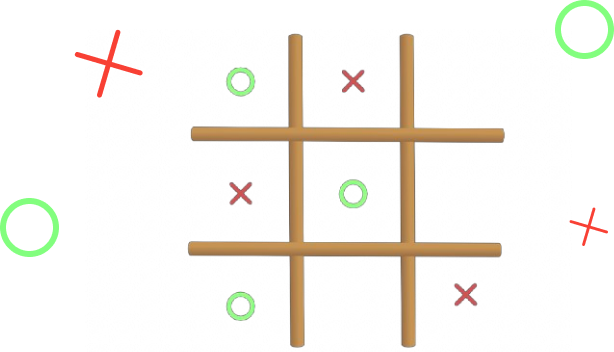
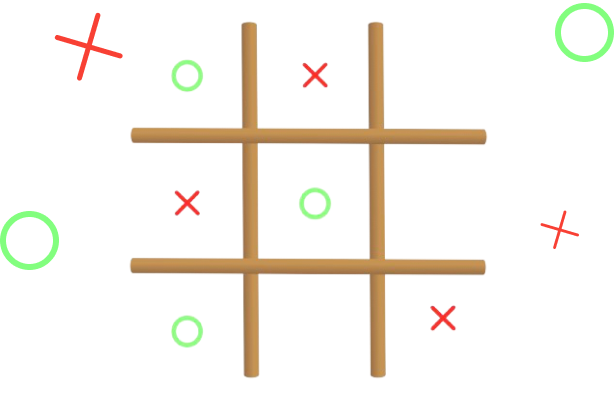
Updated: Copies Updated

diff --git a/lib/presentation/screens/home_page.dart b/lib/presentation/screens/home_page.dart
@@ -12,56 +12,47 @@ class HomePage extends StatelessWidget {
   @override
   Widget build(BuildContext context) {
     double screenWidth = MediaQuery.of(context).size.width;
+    double screenHeight = MediaQuery.of(context).size.height;
 
     return Scaffold(
         backgroundColor: AppColors.primary,
-        body: Column(
-          mainAxisSize: MainAxisSize.min,
-          mainAxisAlignment: MainAxisAlignment.center,
-          children: [
-            Row(
-              mainAxisSize: MainAxisSize.max,
+        body: Container(
+            decoration: BoxDecoration(
+              gradient: RadialGradient(
+                colors: [Colors.black.withOpacity(0.3), AppColors.primary.withOpacity(0.5), AppColors.primary],
+                stops: [0.3, 0.7, 1.0],
+                center: Alignment.center,
+                radius: 1,
+                // Applying GradientTransform to create an elliptical gradient
+                transform: CenteredEllipticalGradientTransform(scaleX: 1.1, scaleY: 0.3)
+                , // Stretch horizontally and shrink vertically
+              ),
+            ),
+            child: Column(
+              mainAxisSize: MainAxisSize.min,
               mainAxisAlignment: MainAxisAlignment.center,
               children: [
-                Image(
-                  image: AssetImage('assets/tic_tac_toe_anim.png'),
-                  width: screenWidth / 4,
+                Row(
+                  mainAxisSize: MainAxisSize.max,
+                  mainAxisAlignment: MainAxisAlignment.center,
+                  children: [
+                    Image(
+                      image: AssetImage('assets/tic_tac_toe_anim.png'),
+                      width: screenWidth / 4,
+                    ),
+                  ],
                 ),
-                // GameModeWidget(
-                //   title: 'Play now',
-                //   description: 'Play against similar rated players',
-                //   imageUrl: 'assets/favicon.png',
-                // ),
-                // SizedBox(width: 16),
-                // GameModeWidget(
-                //   title: 'Play now',
-                //   description: 'Play against similar rated players',
-                //   imageUrl: 'assets/favicon.png',
-                // )
-              ],
-            ),
-            SizedBox(height: 16),
-            Row(
-              mainAxisSize: MainAxisSize.min,
-              children: [
-                // GameModeWidget(
-                //   title: 'Play now',
-                //   description: 'Play against similar rated players',
-                //   imageUrl: 'assets/favicon.png',
-                // ),
-                SizedBox(height: 200),
-                Stack(
-                  fit: StackFit.loose,
-                  alignment: Alignment.center,
+                SizedBox(height: 16),
+                Row(
+                  mainAxisSize: MainAxisSize.min,
                   children: [
                     Container(
+                        padding: EdgeInsets.symmetric(vertical: 5),
                         width: screenWidth / 2,
                         child: Column(
                           children: [
                             Text(
-                              "Blind-Sight Tic Tac Toe takes the classic game of tic-tac-toe and adds a memory challenge."
-                              " In this simplified version, players take turns placing their marks (X or O) on a 3x3 grid, "
-                              "aiming to line up three in a row to win.",
+                              "Played classic tic-tac-toe?",
                               textAlign: TextAlign.center,
                               style: AppTextStyles.bodyTextLarge
                                   .copyWith(color: AppColors.onPrimary),
@@ -69,7 +60,7 @@ class HomePage extends StatelessWidget {
                             ),
                             SizedBox(height: 20),
                             Text(
-                              "But here's the twist: after each move, the board hides the marks, showing only neutral indicators"
+                              "Get ready for a new challenge!, after each move, the board hides the marks, showing only neutral indicators"
                               " instead of Xs and Os. Players must rely on memory to track their own and their opponent's moves.",
                               textAlign: TextAlign.center,
                               style: AppTextStyles.bodyTextLarge
@@ -86,28 +77,56 @@ class HomePage extends StatelessWidget {
                             )
                           ],
                         )),
+                    // GameModeWidget(
+                    //   title: 'Play now',
+                    //   description: 'Play against similar rated players',
+                    //   imageUrl: 'assets/favicon.png',
+                    // )
                   ],
                 ),
-                // GameModeWidget(
-                //   title: 'Play now',
-                //   description: 'Play against similar rated players',
-                //   imageUrl: 'assets/favicon.png',
-                // )
+                SizedBox(height: 60),
+                RoundedCornerButton(
+                  text: "Compete online!",
+                  icon: AssetImage("assets/ic_lightning.png"),
+                  onPressed: () {},
+                ),
+                SizedBox(height: 30),
+                RoundedCornerButton(
+                  text: "Compete online!",
+                  icon: AssetImage("assets/ic_play.png"),
+                  onPressed: () {},
+                )
               ],
-            ),
-            SizedBox(height: 60),
-            RoundedCornerButton(
-              text: "Compete online!",
-              icon: AssetImage("assets/ic_lightning.png"),
-              onPressed: () {},
-            ),
-            SizedBox(height: 30),
-            RoundedCornerButton(
-              text: "Compete online!",
-              icon: AssetImage("assets/ic_play.png"),
-              onPressed: () {},
-            )
-          ],
-        ));
+            )));
+  }
+}
+
+
+// Custom Gradient Transform class for centered elliptical scaling with dynamic scale factors
+class CenteredEllipticalGradientTransform extends GradientTransform {
+  final double scaleX;
+  final double scaleY;
+
+  CenteredEllipticalGradientTransform({required this.scaleX, required this.scaleY});
+
+  @override
+  Matrix4 transform(Rect bounds, {TextDirection? textDirection}) {
+    // Create a custom transformation matrix
+    final matrix = Matrix4.identity();
+
+    // Calculate the center of the bounds
+    final centerX = bounds.width / 2;
+    final centerY = bounds.height / 2;
+
+    // Step 1: Translate the gradient to the origin (center)
+    matrix.translate(centerX - 50, centerY + 150);
+
+    // Step 2: Apply dynamic scaling
+    matrix.scale(scaleX, scaleY);
+
+    // Step 3: Translate back to the original position
+    matrix.translate(-centerX, -centerY);
+
+    return matrix;
   }
 }
